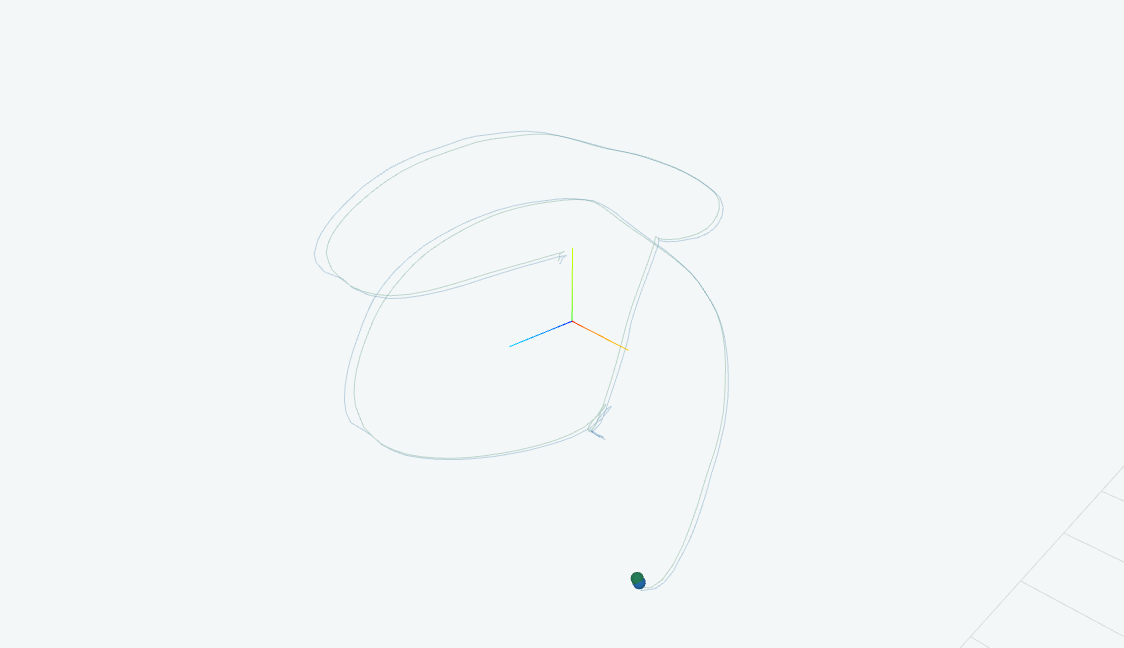
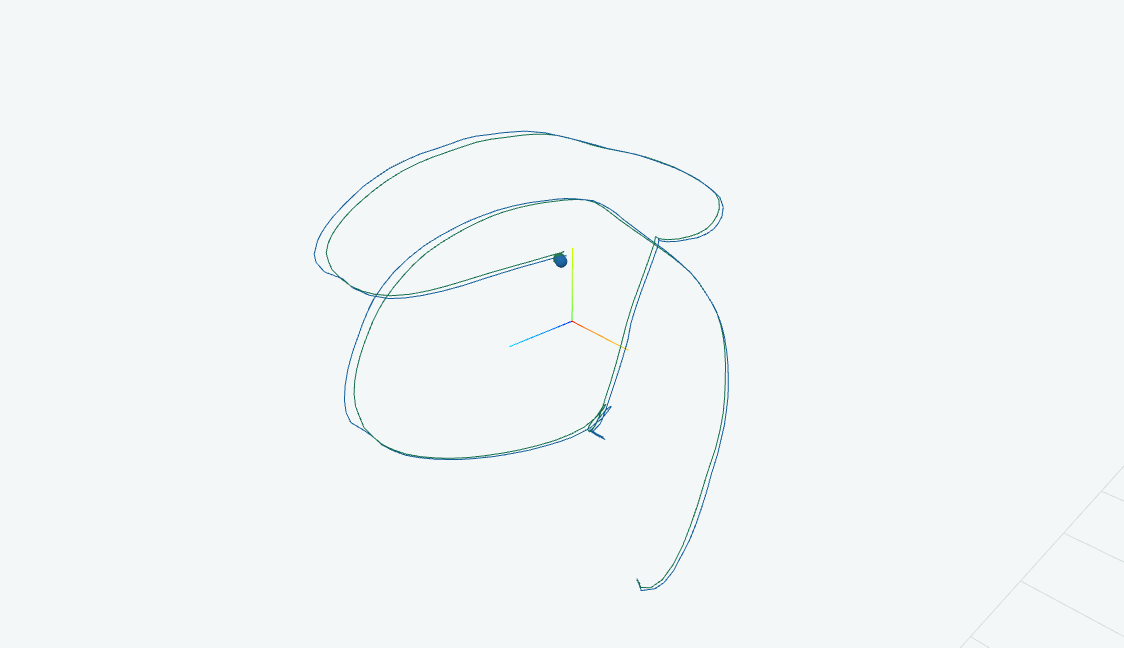
Fix GitHub math macros and replay window

diff --git a/README.md b/README.md
@@ -40,9 +40,9 @@ The player keeps Robot and Quest trajectories in the same coordinate frame and e
 
 ### Short replay animation
 
-![Existing report trajectory replay](media/trajectory.gif)
+![Existing report trajectory replay, last 10 seconds at 2x](media/trajectory.gif)
 
-This GIF is a frame-by-frame capture of the existing report player's trajectory replay. It contains derived display geometry only; no raw Robot or Quest stream is published here.
+This GIF is a frame-by-frame capture of the **last 10 seconds** of the existing report player's full trajectory, encoded at **2× playback speed**. It contains derived display geometry only; no raw Robot or Quest stream is published here.
 
 ## Mathematical reference
 
@@ -76,7 +76,7 @@ For a synchronized sample `k`:
 $$
 \begin{aligned}
 e_p(k) &= \left\|p_{\mathrm{Quest}}(k)-p_{\mathrm{Robot}}(k)\right\|_2,\\
-e_R(k) &= \operatorname{angle}\!\left(T_{\mathrm{Robot}}(k)^{-1}T_{\mathrm{Quest}}(k)\right),\\
+e_R(k) &= \mathrm{angle}\left(T_{\mathrm{Robot}}(k)^{-1}T_{\mathrm{Quest}}(k)\right),\\
 v(k) &= \frac{\left\|p(k+1)-p(k-1)\right\|_2}{t(k+1)-t(k-1)},\\
 C(t) &= \frac{N_{\mathrm{valid}}(t)}{N_{\mathrm{candidate}}(t)}.
 \end{aligned}
@@ -87,7 +87,7 @@ $$
 The uncertainty budget is first-order and explicit:
 
 $$
-\sigma_{\mathrm{total}}=\sqrt{\sigma_{\mathrm{ego}}^2+\sigma_{\mathrm{robot}}^2+(v\,\sigma_t)^2+(\ell\,\sigma_{\theta})^2+\sigma_{\mathrm{fixture}}^2+\sigma_{\mathrm{calibration}}^2}
+\sigma_{\mathrm{total}}=\sqrt{\sigma_{\mathrm{ego}}^2+\sigma_{\mathrm{robot}}^2+(v\sigma_t)^2+(\ell\sigma_{\theta})^2+\sigma_{\mathrm{fixture}}^2+\sigma_{\mathrm{calibration}}^2}
 $$
 
 The code labels these as sigma-like terms and never mixes them with empirical P95 errors.

diff --git a/public_math/README.md b/public_math/README.md
@@ -21,7 +21,7 @@ $$
 
 $$
 e_p=\left\|p_{\mathrm{Quest}}-p_{\mathrm{Robot}}\right\|_2, \qquad
-e_R=\operatorname{angle}\!\left(T_{\mathrm{Robot}}^{-1}T_{\mathrm{Quest}}\right)
+e_R=\mathrm{angle}\left(T_{\mathrm{Robot}}^{-1}T_{\mathrm{Quest}}\right)
 $$
 
 $$
